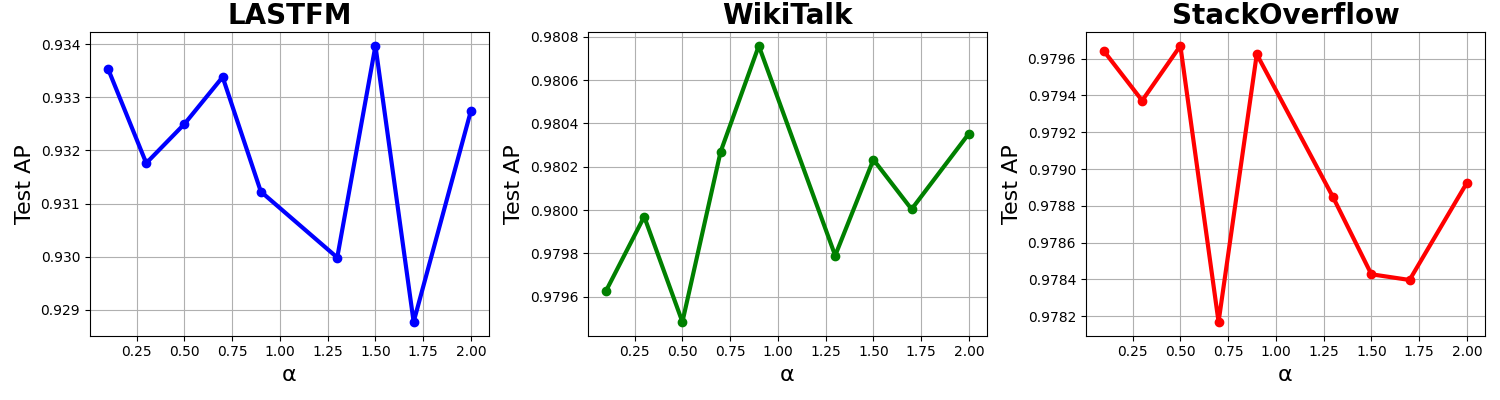
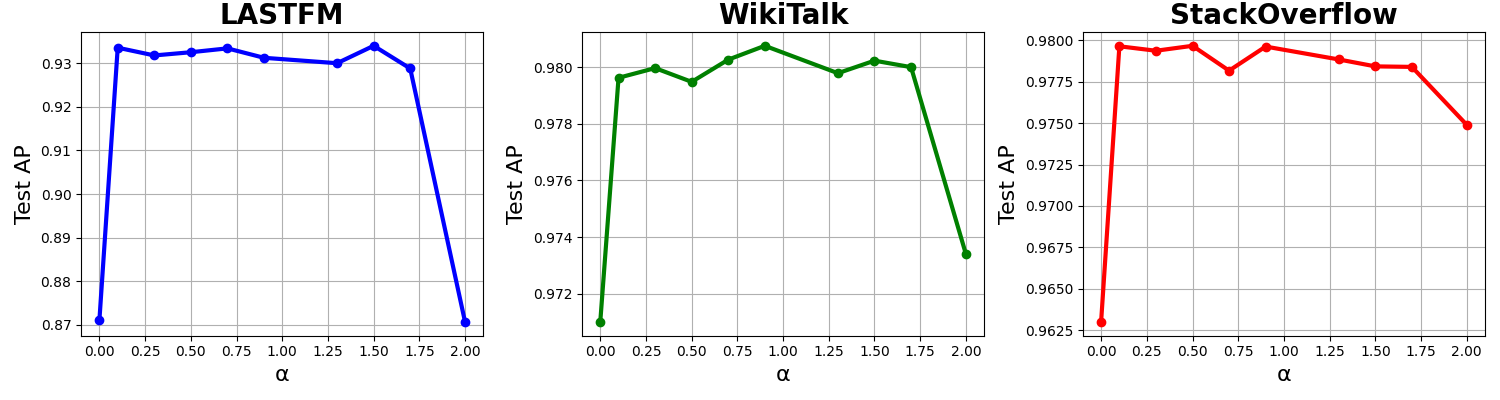
find bugs in shared nodes index

diff --git a/starrygl/module/historical_cache.py b/starrygl/module/historical_cache.py
@@ -92,14 +92,19 @@ class HistoricalCache:
         if self.time_threshold is not None:
             mask = (self.ssim(new_data,self.local_historical_data[index]) > self.threshold | (ts - self.local_ts[index] > self.time_threshold | self.loss_count[index] > self.times_threshold))
             self.loss_count[index][~mask] += 1
+           
             self.loss_count[index][mask] = 0
         else:
             #print('{} {} {} {}  \n'.format(index,self.ssim(new_data,self.local_historical_data[index]),new_data,self.local_historical_data[index]))
             #print(new_data,self.local_historical_data[index])
             #print(self.ssim(new_data,self.local_historical_data[index]) < self.threshold, (self.loss_count[index] > self.times_threshold))
-            mask = (self.ssim(new_data,self.local_historical_data[index]) > self.threshold) | (self.loss_count[index] > self.times_threshold)
-            self.loss_count[index][~mask] += 1
-            self.loss_count[index][mask] = 0
+            mask = ((self.ssim(new_data,self.local_historical_data[index]) > self.threshold) | (self.loss_count[index] > self.times_threshold))
+            (self.loss_count[index[~mask]]) += 1
+            #print(self.loss_count[index][~mask])
+            #if (~mask).sum() > 0:
+            #    print('loss count {}'.format((self.loss_count[index][~mask]).max()))
+           
+            self.loss_count[index[mask]] = 0
         return mask
     
     def read_synchronize(self):

diff --git a/starrygl/module/utils.py b/starrygl/module/utils.py
@@ -159,16 +159,16 @@ class AdaParameter:
     self.beta = self.beta * average_gnn_aggregate/average_fetch * (1 + self.wait_threshold)
     average_memory_sync_time = self.average_memory_sync/self.count_memory_sync
     average_memory_update_time = self.average_memory_update/self.count_memory_update
-    self.alpha = self.alpha+math.log(average_memory_update_time/average_memory_sync_time * (1 + self.wait_threshold))
+    self.alpha = self.alpha-math.log(average_memory_update_time/average_memory_sync_time * (1 + self.wait_threshold))
     self.beta = max(min(self.beta, self.max_beta),self.min_beta)
     self.alpha = max(min(self.alpha, self.max_alpha),self.min_alpha)
     ctx = DistributedContext.get_default_context()
     beta_comm=torch.tensor([self.beta])
     torch.distributed.all_reduce(beta_comm,group=ctx.gloo_group)
-    self.beta = beta_comm[0].item()
+    self.beta = beta_comm[0].item()/ctx.world_size
     alpha_comm=torch.tensor([self.alpha])
     torch.distributed.all_reduce(alpha_comm,group=ctx.gloo_group)
-    self.alpha = alpha_comm[0].item()
+    self.alpha = alpha_comm[0].item()/ctx.world_size
     #print('gnn aggregate {} fetch {} memory sync {} memory update {}'.format(average_gnn_aggregate,average_fetch,average_memory_sync_time,average_memory_update_time))
     #print('beta is {} alpha is {}\n'.format(self.beta,self.alpha))
     #self.reset_time()

diff --git a/draw_alpha.py b/draw_alpha.py
@@ -1,10 +1,10 @@
 import matplotlib.pyplot as plt
 
 # 数据
-alpha_values = [0.1, 0.3, 0.5, 0.7, 0.9, 1.3, 1.5, 1.7, 2]
-lastfm = [0.933538, 0.931761, 0.932499, 0.933383, 0.931225, 0.929983, 0.933971, 0.928771, 0.932748]
-wikitalk = [0.979627, 0.97997, 0.979484, 0.980269, 0.980758, 0.97979, 0.980233, 0.980004, 0.980353]
-stackoverflow = [0.979641, 0.979372, 0.97967, 0.978169, 0.979624, 0.978846, 0.978428, 0.978397, 0.978925]
+alpha_values = [0,0.1, 0.3, 0.5, 0.7, 0.9, 1.3, 1.5, 1.7, 2]
+lastfm = [0.8712 ,0.933538, 0.931761, 0.932499, 0.933383, 0.931225, 0.929983, 0.933971, 0.928771, 0.8707 ]
+wikitalk = [0.9710,0.979627, 0.97997, 0.979484, 0.980269, 0.980758, 0.97979, 0.980233, 0.980004, 0.9734 ]
+stackoverflow = [0.9630,0.979641, 0.979372, 0.97967, 0.978169, 0.979624, 0.978846, 0.978428, 0.978397, 0.9749 ]
 
 # 创建新的图像和子图
 fig, axs = plt.subplots(1,3, figsize=(15,4))

diff --git a/starrygl/sample/memory/_shared_mailbox.py b/starrygl/sample/memory/_shared_mailbox.py
@@ -275,8 +275,8 @@ class SharedMailBox():
             shared_index,shared_data,shared_ts = out
             index = self.shared_nodes_index[shared_index]
             mask= (shared_ts > self.node_memory_ts.accessor.data[index])
-            self.node_memory.accessor.data[index][mask] = shared_data[mask]
-            self.node_memory_ts.accessor.data[index][mask] = shared_ts[mask]
+            self.node_memory.accessor.data[index[mask]] = shared_data[mask]
+            self.node_memory_ts.accessor.data[index[mask]] = shared_ts[mask]
 
     def update_shared(self):
         ctx = DistributedContext.get_default_context()
